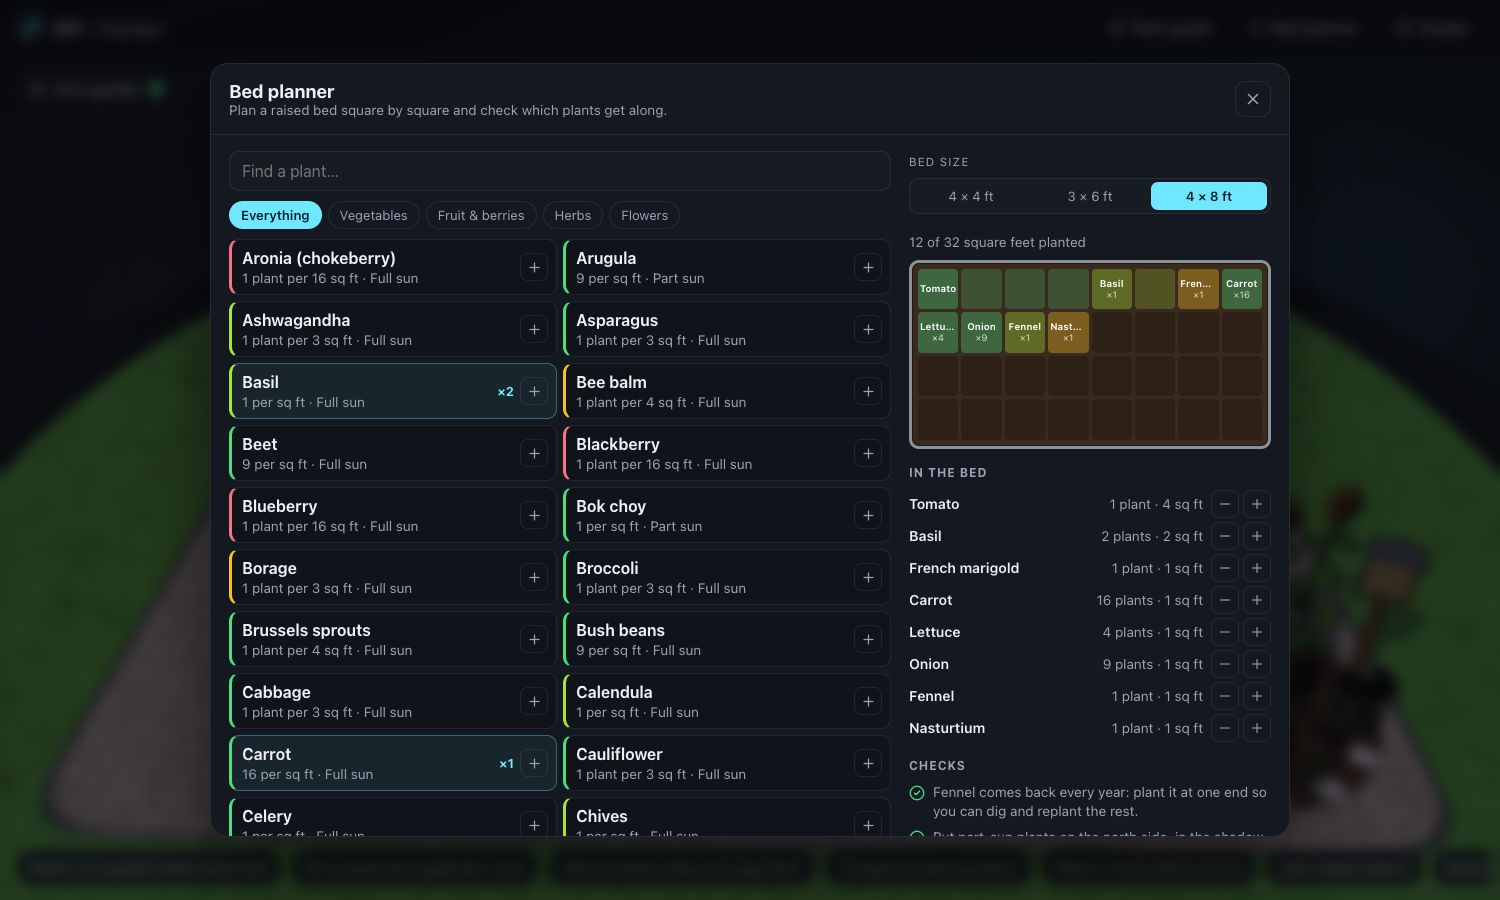
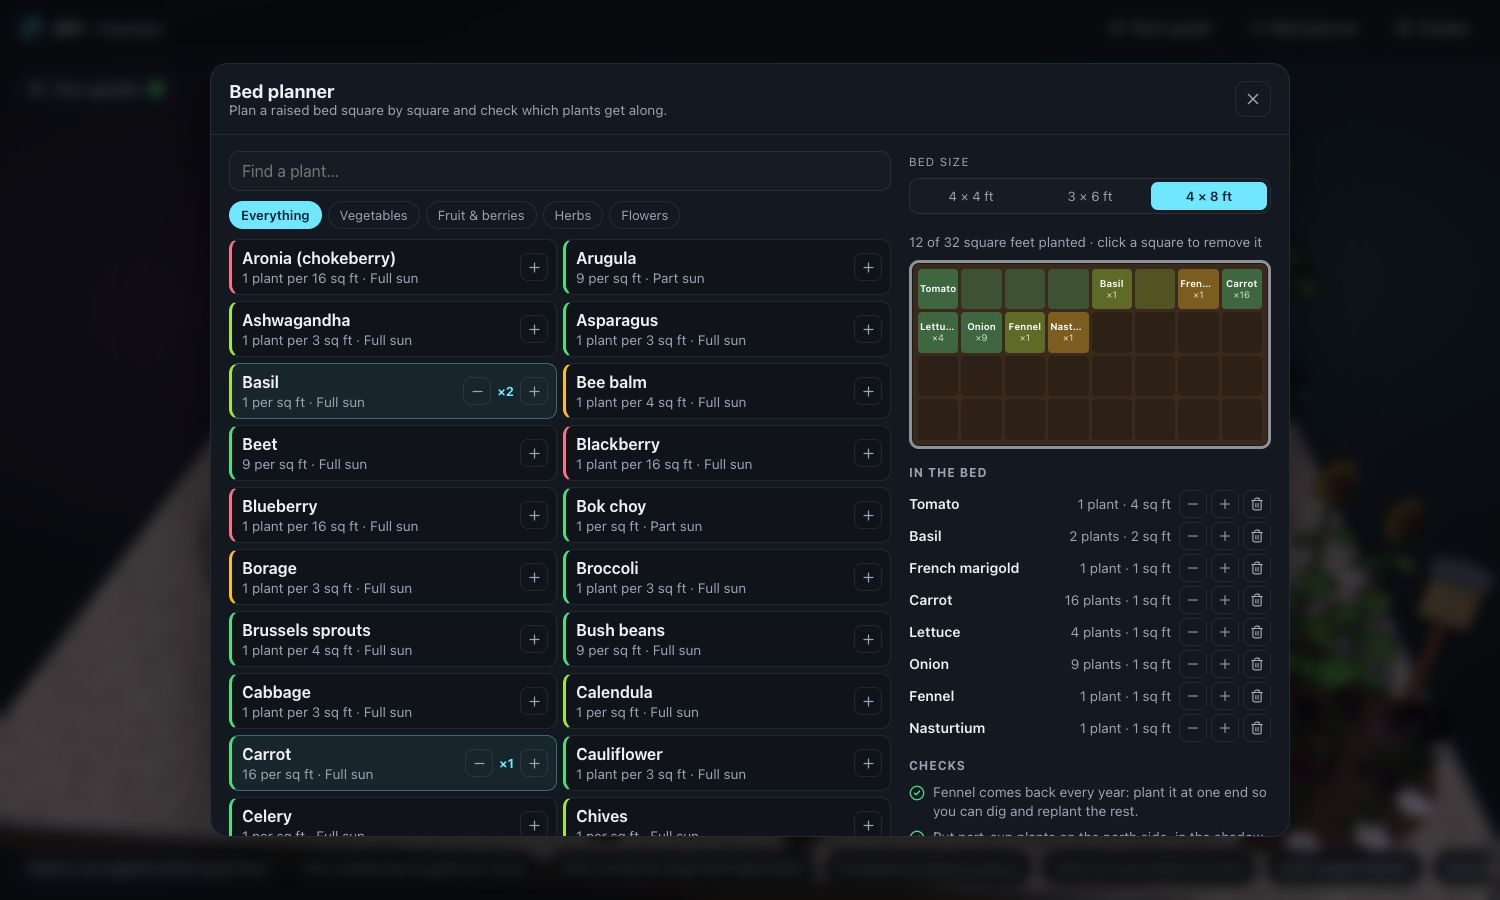
Garden: silhouette highlight, shorter corn, no lawn, easier bed planner
- Hover/selected areas get one cyan outline around their silhouette instead
  of tinting every leaf's ink hull
- Corn leaves shortened and held up like a real stand; fuller tassels
- Lawn and dark ring removed; the garden sits on an earth slab
- Bed planner: minus buttons on the plant list, a remove-all button per row,
  and clicking a planted square removes it

diff --git a/src/garden/scene/scene.ts b/src/garden/scene/scene.ts
@@ -4,7 +4,7 @@ import { AREAS, type AreaId, type LidId } from '../data/areas';
 import type { Setup } from '../data/setup';
 import { buildRig, rigKey, type Rig } from './rig';
 import { tween, updateTweens, easeInOutCubic, easeOutBack, lerp } from '../../shared/tween';
-import { lineMaterials, setHighlight, shared } from '../../shared/toon';
+import { lineMaterials, shared } from '../../shared/toon';
 
 export interface SceneApi {
   focus(area: AreaId | null): void;
@@ -14,6 +14,47 @@ export interface SceneApi {
 }
 
 const ALL_LIDS: LidId[] = ['bedFront', 'shedDoors', 'compostSlats', 'rowCover'];
+const HOVER_LAYER = 1;
+const SELECT_LAYER = 2;
+
+/** Mask of the highlighted area (red = hovered, green = selected) turned into a cyan rim. */
+function makeOutline(): { target: THREE.WebGLRenderTarget; mask: THREE.MeshBasicMaterial; quad: THREE.Mesh; cam: THREE.OrthographicCamera; uniforms: { uMask: { value: THREE.Texture }; uTexel: { value: THREE.Vector2 }; uScale: { value: number } } } {
+  const target = new THREE.WebGLRenderTarget(1, 1);
+  const mask = new THREE.MeshBasicMaterial({ color: 0xffffff, side: THREE.DoubleSide, depthTest: false, depthWrite: false });
+  const uniforms = { uMask: { value: target.texture as THREE.Texture }, uTexel: { value: new THREE.Vector2(1, 1) }, uScale: { value: 1 } };
+  const mat = new THREE.ShaderMaterial({
+    uniforms,
+    transparent: true,
+    depthTest: false,
+    depthWrite: false,
+    vertexShader: 'varying vec2 vUv; void main() { vUv = uv; gl_Position = vec4(position.xy, 0.0, 1.0); }',
+    fragmentShader: `
+      uniform sampler2D uMask; uniform vec2 uTexel; uniform float uScale;
+      varying vec2 vUv;
+      void main() {
+        vec2 c = texture2D(uMask, vUv).rg;
+        // Near the mask (rim width) and how surrounded we are (to skip gaps between leaves).
+        vec2 near = vec2(0.0), cover = vec2(0.0);
+        for (int i = 0; i < 16; i++) {
+          float a = float(i) * 0.3927;
+          vec2 d = vec2(cos(a), sin(a)) * uTexel * uScale;
+          vec2 s1 = texture2D(uMask, vUv + d * 1.6).rg;
+          vec2 s2 = texture2D(uMask, vUv + d * 3.2).rg;
+          near = max(near, max(s1, s2));
+          cover += step(0.5, texture2D(uMask, vUv + d * 14.0).rg);
+        }
+        cover /= 16.0;
+        float sel = near.g * (1.0 - c.g) * (1.0 - smoothstep(0.55, 0.75, cover.g));
+        float hover = near.r * (1.0 - c.r) * (1.0 - smoothstep(0.55, 0.75, cover.r)) * 0.85;
+        float rim = max(sel, hover);
+        if (rim < 0.01) discard;
+        gl_FragColor = vec4(0.431, 0.906, 1.0, rim);
+      }`,
+  });
+  const quad = new THREE.Mesh(new THREE.PlaneGeometry(2, 2), mat);
+  quad.frustumCulled = false;
+  return { target, mask, quad, cam: new THREE.OrthographicCamera(-1, 1, 1, -1, 0, 1), uniforms };
+}
 
 export function createScene(canvas: HTMLCanvasElement, initial: Setup): SceneApi {
   const renderer = new THREE.WebGLRenderer({ canvas, antialias: true, alpha: true });
@@ -58,13 +99,6 @@ export function createScene(canvas: HTMLCanvasElement, initial: Setup): SceneApi
   front.position.set(-3, 3, 8);
   scene.add(front);
 
-  const ring = new THREE.Mesh(
-    new THREE.RingGeometry(5.12, 5.7, 72),
-    new THREE.MeshBasicMaterial({ color: 0x0f1218, transparent: true, opacity: 0.9, side: THREE.DoubleSide }),
-  );
-  ring.rotation.x = -Math.PI / 2;
-  ring.position.y = 0.002;
-  scene.add(ring);
 
   let rig: Rig = buildRig(initial);
   scene.add(rig.group);
@@ -87,9 +121,16 @@ export function createScene(canvas: HTMLCanvasElement, initial: Setup): SceneApi
   const selectCbs: ((a: AreaId | null) => void)[] = [];
   const hoverCbs: ((a: AreaId | null) => void)[] = [];
 
+  // Highlights draw one outline around an area's silhouette instead of
+  // tinting every leaf's ink. Hovered meshes go on layer 1, selected on 2.
   function setGlow(a: AreaId | null, level: 'none' | 'hover' | 'selected'): void {
     if (!a) return;
-    for (const m of rig.glow.get(a) ?? []) setHighlight(m, level);
+    for (const m of rig.glow.get(a) ?? []) {
+      m.layers.disable(HOVER_LAYER);
+      m.layers.disable(SELECT_LAYER);
+      if (level === 'hover') m.layers.enable(HOVER_LAYER);
+      if (level === 'selected') m.layers.enable(SELECT_LAYER);
+    }
   }
   function refreshGlow(): void {
     for (const a of rig.glow.keys()) setGlow(a, 'none');
@@ -264,12 +305,46 @@ export function createScene(canvas: HTMLCanvasElement, initial: Setup): SceneApi
     const { clientWidth: w, clientHeight: h } = canvas.parentElement ?? canvas;
     lineMaterials.forEach((m) => m.resolution.set(w, h));
   }
+  const outline = makeOutline();
+  const maskScene = new THREE.Scene();
+  maskScene.add(outline.quad);
+  function renderOutline(): void {
+    if (!hovered && !selected) return;
+    const layers = camera.layers.mask;
+    const bg = scene.background;
+    renderer.setRenderTarget(outline.target);
+    renderer.setClearColor(0x000000, 0);
+    renderer.clear();
+    scene.overrideMaterial = outline.mask;
+    scene.background = null;
+    const shadows = renderer.shadowMap.autoUpdate;
+    renderer.shadowMap.autoUpdate = false;
+    for (const [layer, col] of [[HOVER_LAYER, 0xff0000], [SELECT_LAYER, 0x00ff00]] as const) {
+      camera.layers.set(layer);
+      outline.mask.color.setHex(col);
+      outline.mask.blending = THREE.AdditiveBlending;
+      renderer.autoClear = false;
+      renderer.render(scene, camera);
+    }
+    renderer.shadowMap.autoUpdate = shadows;
+    scene.overrideMaterial = null;
+    scene.background = bg;
+    camera.layers.mask = layers;
+    renderer.setRenderTarget(null);
+    renderer.render(maskScene, outline.cam);
+    renderer.autoClear = true;
+  }
+
   function resize(): void {
     const { clientWidth: w, clientHeight: h } = canvas.parentElement ?? canvas;
     renderer.setSize(w, h, false);
     camera.aspect = w / h;
     camera.updateProjectionMatrix();
     shared.uDotSize.value = 5.5 * renderer.getPixelRatio();
+    const pr = renderer.getPixelRatio();
+    outline.target.setSize(Math.round(w * pr), Math.round(h * pr));
+    outline.uniforms.uTexel.value.set(1 / (w * pr), 1 / (h * pr));
+    outline.uniforms.uScale.value = pr;
     syncLineResolution();
   }
   window.addEventListener('resize', resize);
@@ -297,6 +372,7 @@ export function createScene(canvas: HTMLCanvasElement, initial: Setup): SceneApi
     shared.uKeyDir.value.copy(keyDir).transformDirection(camera.matrixWorldInverse);
     shared.uUpView.value.set(0, 1, 0).transformDirection(camera.matrixWorldInverse);
     renderer.render(scene, camera);
+    renderOutline();
   });
   (window as unknown as { __garden?: unknown }).__garden = { renderer, camera, controls, scene };
 

diff --git a/src/garden/scene/rig.ts b/src/garden/scene/rig.ts
@@ -96,11 +96,9 @@ export function buildRig(s: Setup): Rig {
   root.scale.setScalar(K);
 
   // Materials. White ones are tinted per instance.
-  const grassCol = season === 'spring' ? '#6fbf4a' : season === 'summer' ? '#5aa83f' : '#8fa548';
   const white = toon(0xffffff);
   const whiteShiny = toon(0xffffff, { shine: 0.7 });
   const M = {
-    grass: mapped(0xffffff, speckle(grassCol, ['#4f9a36', '#7cc957', '#3f8a2e', season === 'fall' ? '#b0a048' : '#68b84a'], 2400, [2, 5], [14, 14], 6), { halftone: 0.9 }),
     galv: toon(0xb4bcc6, { shine: 0.75, metal: 0.65 }),
     galvDark: toon(0x6d7480, { shine: 0.5, metal: 0.5 }),
     cedar: mapped(0xffffff, woodTexture('#c27a4c', '#8a4628', [1, 1])),
@@ -204,8 +202,6 @@ export function buildRig(s: Setup): Rig {
   }
 
   // ---------- ground ----------
-  const ground = add(new THREE.CircleGeometry(8.6, 72), M.grass, root, [0, -0.005, 0], { rot: [-Math.PI / 2, 0, 0], ink: null });
-  ground.castShadow = false;
   const gravelShape = new THREE.Shape();
   {
     const w = 5.9;
@@ -229,6 +225,9 @@ export function buildRig(s: Setup): Rig {
     for (let i = 0; i < pos.count; i++) uv.setXY(i, (pos.getX(i) + 5.9) / 11.8, (pos.getY(i) + 4.9) / 9.8);
   }
   const gravel = add(gravelGeo, M.gravel, root, [0, 0.004, 0], { rot: [-Math.PI / 2, 0, 0], ink: null });
+  // The garden sits on a slab of earth, like a diorama base.
+  const slab = add(new THREE.ExtrudeGeometry(gravelShape, { depth: 0.28, bevelEnabled: false, curveSegments: 8 }), toon(0x3a2a1e), root, [0, -0.29, 0], { rot: [-Math.PI / 2, 0, 0], ink: 'body' });
+  slab.castShadow = false;
   gravel.castShadow = false;
   // Steel edging around the gravel.
   tube(gravelShape.getSpacedPoints(120).map((p) => V(p.x, 0.02, -p.y)), 0.02, M.galvDark, root, { radial: 4, seg: 240 });
@@ -240,20 +239,6 @@ export function buildRig(s: Setup): Rig {
   const stone = (x: number, z: number) => inst(stones, UNIT_BOX, M.stone, [x + jitter(r, 0.02), 0.025, z + jitter(r, 0.02)], [0.44, 0.05, 0.44], new THREE.Color(0xffffff).offsetHSL(0, 0, jitter(r, 0.05)), [0, jitter(r, 0.08), 0]);
   for (let z = 4.4; z > -1.7; z -= 0.56) if (Math.abs(z - 1.25) > 0.3) stone(0, z);
   for (let x = -3.6; x < 4.2; x += 0.56) stone(x, 1.25);
-
-  // Grass tufts around the lawn, denser near the gravel edge.
-  const lawn = new THREE.Group();
-  lawn.userData.batchRoot = true;
-  root.add(lawn);
-  for (let i = 0; i < 340; i++) {
-    const a = r() * Math.PI * 2;
-    const rad = range(r, 6.4, 8.4);
-    const x = Math.cos(a) * rad * 1.02;
-    const z = Math.sin(a) * rad * 0.98;
-    if (Math.abs(x) < 6.1 && Math.abs(z) < 5.1) continue;
-    const m = new THREE.Matrix4().compose(V(x, 0, z), new THREE.Quaternion().setFromAxisAngle(UP, r() * 6.28), V(1, range(r, 0.8, 1.5), 1).multiplyScalar(range(r, 1.2, 2)));
-    b.add(lawn, P.TUFT, k.plain, m, { color: new THREE.Color(grassCol).offsetHSL(jitter(r, 0.02), 0, jitter(r, 0.08)), ink: null, wind: WIND });
-  }
 
   // ---------- raised beds ----------
   function galvBed(g: THREE.Group, w: number, d: number, h: number, front?: THREE.Group): void {
@@ -1065,7 +1050,9 @@ export function buildRig(s: Setup): Rig {
     const list: THREE.Mesh[] = [];
     g.traverse((o) => {
       const m = o as THREE.Mesh;
-      if (m.isMesh && !m.userData.ink && m.children.some((c) => c.userData.ink)) list.push(m);
+      // Everything visible except ink hulls and invisible pick boxes: the outline traces its silhouette.
+      const mat = m.material as THREE.Material & { isLineMaterial?: boolean; opacity: number };
+      if (m.isMesh && !m.userData.ink && mat.visible !== false && !mat.isLineMaterial && !(mat.transparent && mat.opacity < 0.05)) list.push(m);
     });
     glow.set(id, list);
   }
@@ -1120,7 +1107,7 @@ export function buildRig(s: Setup): Rig {
     seedlings: view(at('seedlings', 0, 1.0, 0), [1, 0.5, 0.25], 2.6),
     arbor: view(at('arbor', 0, 1.3, 0), [0.25, 0.25, 1], 4.4),
   };
-  const overview: View = view([0, 0.4, 0.3], [0.16, 0.72, 1], 16.5);
+  const overview: View = view([0, 0.2, 0.2], [0.16, 0.72, 1], 15.5);
 
   // ---------- behaviour ----------
   const lids = new Map<LidId, { open: boolean; k: number }>();

diff --git a/src/garden/ui/planner.ts b/src/garden/ui/planner.ts
@@ -54,6 +54,7 @@ export function openPlanner(): void {
     p.splice(p.lastIndexOf(id), 1);
     setPlan(p);
   };
+  const removeAll = (id: string) => setPlan(plan().filter((x) => x !== id));
 
   function renderChips(): void {
     clear(chips);
@@ -74,6 +75,7 @@ export function openPlanner(): void {
           h('button', { class: 'plan-opt-main', onClick: () => add(p.id), 'aria-label': `Add ${p.name}` },
             h('span', { class: 'opt-name' }, p.name),
             h('span', { class: 'muted small' }, `${perLabel(p)} · ${SUN_LABEL[p.sun]}`)),
+          n ? h('button', { class: 'icon-btn small-btn', 'aria-label': `One less ${p.name}`, onClick: () => remove(p.id) }, icon('minus', 15)) : null,
           n ? h('span', { class: 'opt-tick' }, `×${n}`) : null,
           h('button', { class: 'icon-btn small-btn', 'aria-label': `Add ${p.name}`, onClick: () => add(p.id) }, icon('plus', 15))),
       );
@@ -101,7 +103,7 @@ export function openPlanner(): void {
     for (const r of rows) {
       for (let i = 0; i < r.squares; i++) {
         const sq = squares(r.plant);
-        cells.push(h('button', { class: `sq t-${r.plant.type}${i ? ' cont' : ''}`, title: r.plant.name, onClick: () => openPlantGuide(r.plant.id) },
+        cells.push(h('button', { class: `sq t-${r.plant.type}${i ? ' cont' : ''}`, title: `${r.plant.name}: click to remove one`, 'aria-label': `Remove one ${r.plant.name}`, onClick: () => remove(r.plant.id) },
           i ? '' : h('span', {}, r.plant.name.split(' (')[0]), i || sq.squares > 1 ? '' : h('small', {}, `×${sq.perSquare}`)));
       }
     }
@@ -114,7 +116,7 @@ export function openPlanner(): void {
     side.append(
       h('p', { class: 'paint-label' }, 'Bed size'), seg,
       h('div', { class: `meter${used > total ? ' over' : ''}` }, h('span', { style: `width:${Math.min(100, (used / total) * 100)}%` })),
-      h('p', { class: 'muted small' }, `${used} of ${total} square feet planted`),
+      h('p', { class: 'muted small' }, `${used} of ${total} square feet planted${rows.length ? ' · click a square to remove it' : ''}`),
       grid,
     );
 
@@ -129,7 +131,8 @@ export function openPlanner(): void {
         h('span', { class: 'muted small' }, `${r.plants} plant${r.plants > 1 ? 's' : ''} · ${r.squares} sq ft`),
         h('span', { class: 'stepper' },
           h('button', { class: 'icon-btn small-btn', 'aria-label': `One less ${r.plant.name}`, onClick: () => remove(r.plant.id) }, icon('minus', 14)),
-          h('button', { class: 'icon-btn small-btn', 'aria-label': `One more ${r.plant.name}`, onClick: () => add(r.plant.id) }, icon('plus', 14)))))));
+          h('button', { class: 'icon-btn small-btn', 'aria-label': `One more ${r.plant.name}`, onClick: () => add(r.plant.id) }, icon('plus', 14)),
+          h('button', { class: 'icon-btn small-btn danger', 'aria-label': `Remove all ${r.plant.name}`, title: 'Remove from the bed', onClick: () => removeAll(r.plant.id) }, icon('trash', 14)))))));
 
     side.append(h('h4', { class: 'side-h' }, 'Checks'), h('ul', { class: 'issues' }, ...issues.map((i) => h('li', { class: `lvl-${i.level}` }, icon(LEVEL_ICON[i.level], 16), h('span', {}, i.text)))));
     if (good.length) {

diff --git a/src/garden/scene/plants.ts b/src/garden/scene/plants.ts
@@ -90,7 +90,7 @@ const BERRY = (() => {
 })();
 
 /** Corn leaf: long strap that arches up and over. */
-const CORN_LEAF = leafGeo({ shape: 'strap', w: 0.055, bend: 1.9, fold: 0.14, ruffle: 0.012, ruffleFreq: 30, segments: 24 });
+const CORN_LEAF = leafGeo({ shape: 'strap', w: 0.075, bend: 1.2, fold: 0.14, ruffle: 0.012, ruffleFreq: 30, segments: 24 });
 
 // ---------- materials ----------
 
@@ -454,17 +454,18 @@ export function corn(k: PlantKit, parent: THREE.Object3D, p: THREE.Vector3, o: {
   const H = k.season === 'spring' ? 0.55 : range(k.r, 1.75, 2.0);
   const green = fall ? 0xc9b36a : 0x69ab3c;
   tube([V(0, 0, 0), V(jitter(k.r, 0.02), H * 0.5, jitter(k.r, 0.02)), V(jitter(k.r, 0.03), H, jitter(k.r, 0.03))], 0.016, k.stem(fall ? 0xb59c58 : 0x7fb048), g, { wind: WIND, taper: 0.55 });
-  const leaves = k.season === 'spring' ? 5 : 11;
+  // Shortish leaves held up along the stalk, as in a real cornfield.
+  const leaves = k.season === 'spring' ? 5 : 13;
   for (let i = 0; i < leaves; i++) {
-    const h = H * (0.08 + 0.82 * (i / leaves));
+    const h = H * (0.06 + 0.78 * (i / leaves));
     const a = i * Math.PI + i * 0.35 + jitter(k.r, 0.6);
-    const len = (k.season === 'spring' ? 0.35 : 0.78) * (1 - 0.35 * Math.abs(i / leaves - 0.45));
-    put(k, g, CORN_LEAF, k.leaf, leafMatrix(V(0, h, 0), outUp(a, range(k.r, 1.25, 1.42)), UP, len), vary(k, green, 0.05));
+    const len = (k.season === 'spring' ? 0.28 : 0.46) * (1 - 0.4 * Math.abs(i / leaves - 0.4));
+    put(k, g, CORN_LEAF, k.leaf, leafMatrix(V(0, h, 0), outUp(a, range(k.r, 1.0, 1.25)), UP, len), vary(k, green, 0.05));
   }
   if (k.season !== 'spring') {
     // Tassel.
-    for (let i = 0; i < 7; i++) {
-      put(k, g, CYL, k.plain, stalkM(V(0, H, 0), outUp(i * 0.9, i === 0 ? 1.57 : 0.9), 0.14, 0.0025), fall ? 0xa98a4a : 0xd8c46a, null);
+    for (let i = 0; i < 10; i++) {
+      put(k, g, CYL, k.plain, stalkM(V(0, H - (i ? 0.03 : 0), 0), outUp(i * 0.7, i === 0 ? 1.57 : range(k.r, 1.0, 1.3)), i === 0 ? 0.24 : 0.17, 0.004), fall ? 0xa98a4a : 0xe2d48a, null);
     }
     // Ears in husks with silk.
     for (let e = 0; e < 2; e++) {

diff --git a/src/garden/garden.css b/src/garden/garden.css
@@ -90,6 +90,8 @@ button.rel-chip:hover { border-color: rgba(255,255,255,0.3); }
 }
 .sq span { max-width: 100%; font-weight: 650; white-space: nowrap; overflow: hidden; text-overflow: ellipsis; }
 .sq small { opacity: 0.8; font-size: 0.58rem; }
+.sq:not(.empty):hover { outline: 2px solid var(--diff-3); outline-offset: -2px; cursor: pointer; }
+.icon-btn.danger:hover { color: var(--diff-3); border-color: rgba(248,113,113,0.4); }
 .sq.cont { background: color-mix(in srgb, var(--t) 22%, #3a2a1d); }
 .sq.empty { background: rgba(0,0,0,0.22); }
 .sq.over { outline: 2px solid var(--diff-3); outline-offset: -2px; }
